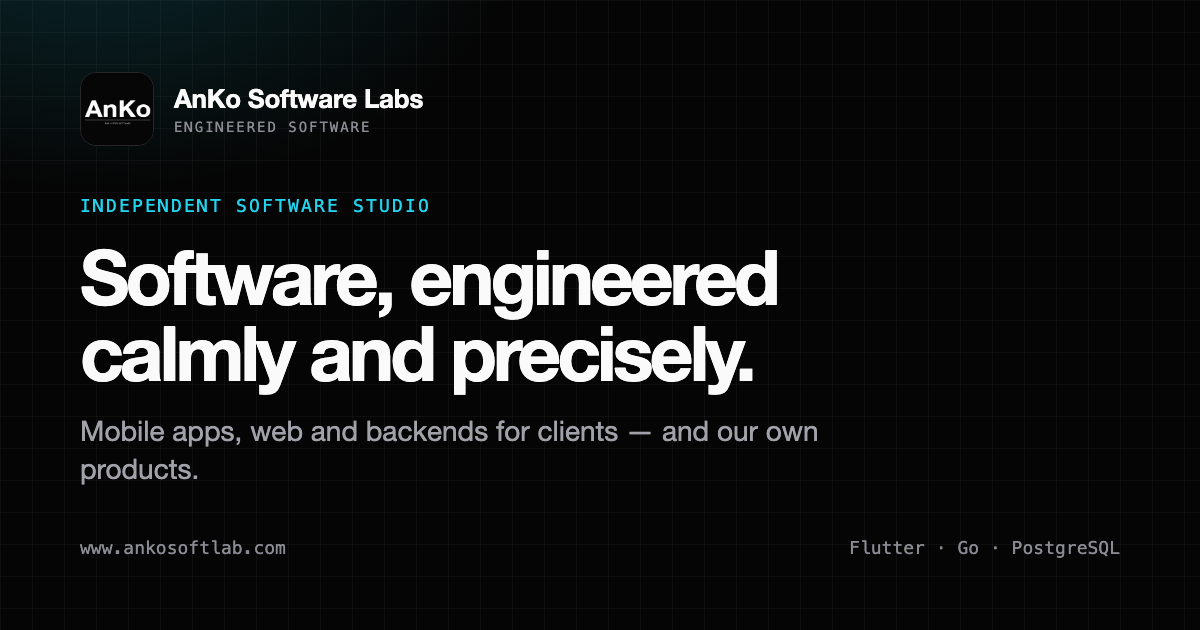
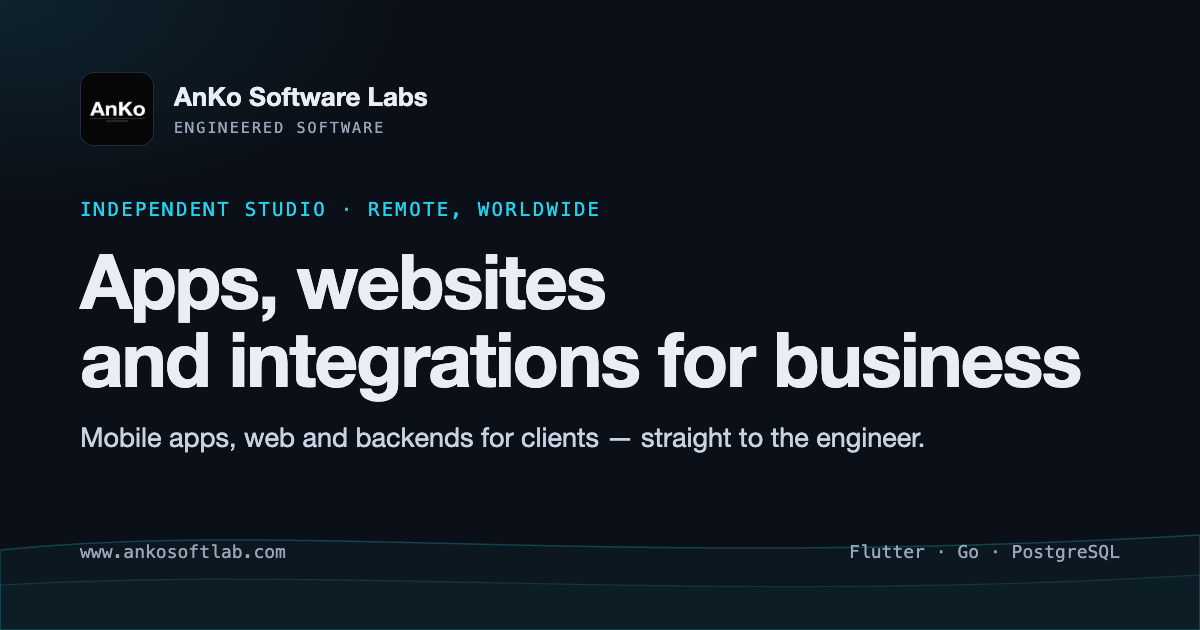
2026-11-13: убрать «спокойно и точно» — H1 «Сайты, приложения и интеграции для бизнеса» (EN «Apps, websites and integrations for your business»); на RU статус «самозанятый (НПД), Калининград» в подписи главной и в «О студии», EN — ИП в Грузии без изменений; картинки превью RU и EN пересняты

diff --git a/content/ru/about.md b/content/ru/about.md
@@ -11,7 +11,7 @@ studio:
   paragraphs:
     - "Студия занимается двумя вещами: собственными продуктами (TapReply и Terroir) и проектами разработки для клиентов — мобильные приложения, веб и бэкенд."
     - "Небольшой размер означает, что каждый проект получает прямое внимание человека, который пишет код, и что мы берём только ту работу, которую можем сделать хорошо."
-    - "AnKo Software Labs — торговое название Антона Козырева, индивидуального предпринимателя, зарегистрированного в Грузии."
+    - "AnKo Software Labs — торговое название Антона Козырева. В России работаю как самозанятый (НПД), для клиентов за пределами России — через индивидуального предпринимателя в Грузии."
 founder:
   kicker: "Основатель"
   name: "Антон Козырев"
@@ -33,9 +33,9 @@ business:
   imprintLink: "Полные выходные данные →"
   facts:
     - { k: "Торговое название", v: "AnKo Software Labs" }
-    - { k: "Правовая форма", v: "Индивидуальный предприниматель" }
+    - { k: "Правовая форма", v: "Самозанятый (НПД) — для РФ; ИП в Грузии — для международных заказов" }
     - { k: "Владелец", v: "Антон Козырев" }
-    - { k: "Регистрация", v: "Грузия" }
+    - { k: "Регистрация", v: "Россия (НПД); Грузия (ИП)" }
     - { k: "ИН", v: "304822565" }
 cta:
   title: "Работаете над чем-то?"

diff --git a/content/ru/_index.md b/content/ru/_index.md
@@ -3,8 +3,8 @@ title: "AnKo Software Labs"
 seoTitle: "Разработка сайтов и приложений — Калининград · AnKo Software Labs"
 description: "Студия разработки в Калининграде и удалённо: мобильные приложения, веб и бэкенд на Go для бизнеса. Напрямую с инженером, который пишет код."
 hero:
-  eyebrow: "Студия · Калининград и удалённо"
-  title: "Софт, сделанный <span class=\"accent\">спокойно</span> и точно."
+  eyebrow: "Студия · самозанятый (НПД), Калининград"
+  title: "Сайты, приложения и интеграции для бизнеса"
   lead: "AnKo Software Labs проектирует и разрабатывает мобильные приложения, веб-продукты и бэкенд для клиентов — и делает собственные продукты. Вы общаетесь напрямую с инженером, который пишет код."
   primary: "Обсудить проект"
   secondary: "Продукты"

diff --git a/content/en/_index.md b/content/en/_index.md
@@ -4,7 +4,7 @@ seoTitle: "AnKo Software Labs — Independent software studio"
 description: "Independent software studio building mobile apps, web and Go backends for clients, and its own products: TapReply and Terroir."
 hero:
   eyebrow: "Independent studio · Remote, worldwide"
-  title: "Software, engineered <span class=\"accent\">calmly</span> and precisely."
+  title: "Apps, websites and integrations for your business"
   lead: "AnKo Software Labs designs and builds mobile apps, web products and backends for clients — and develops its own products. You work directly with the engineer who writes the code."
   primary: "Get a quote"
   secondary: "See products"
